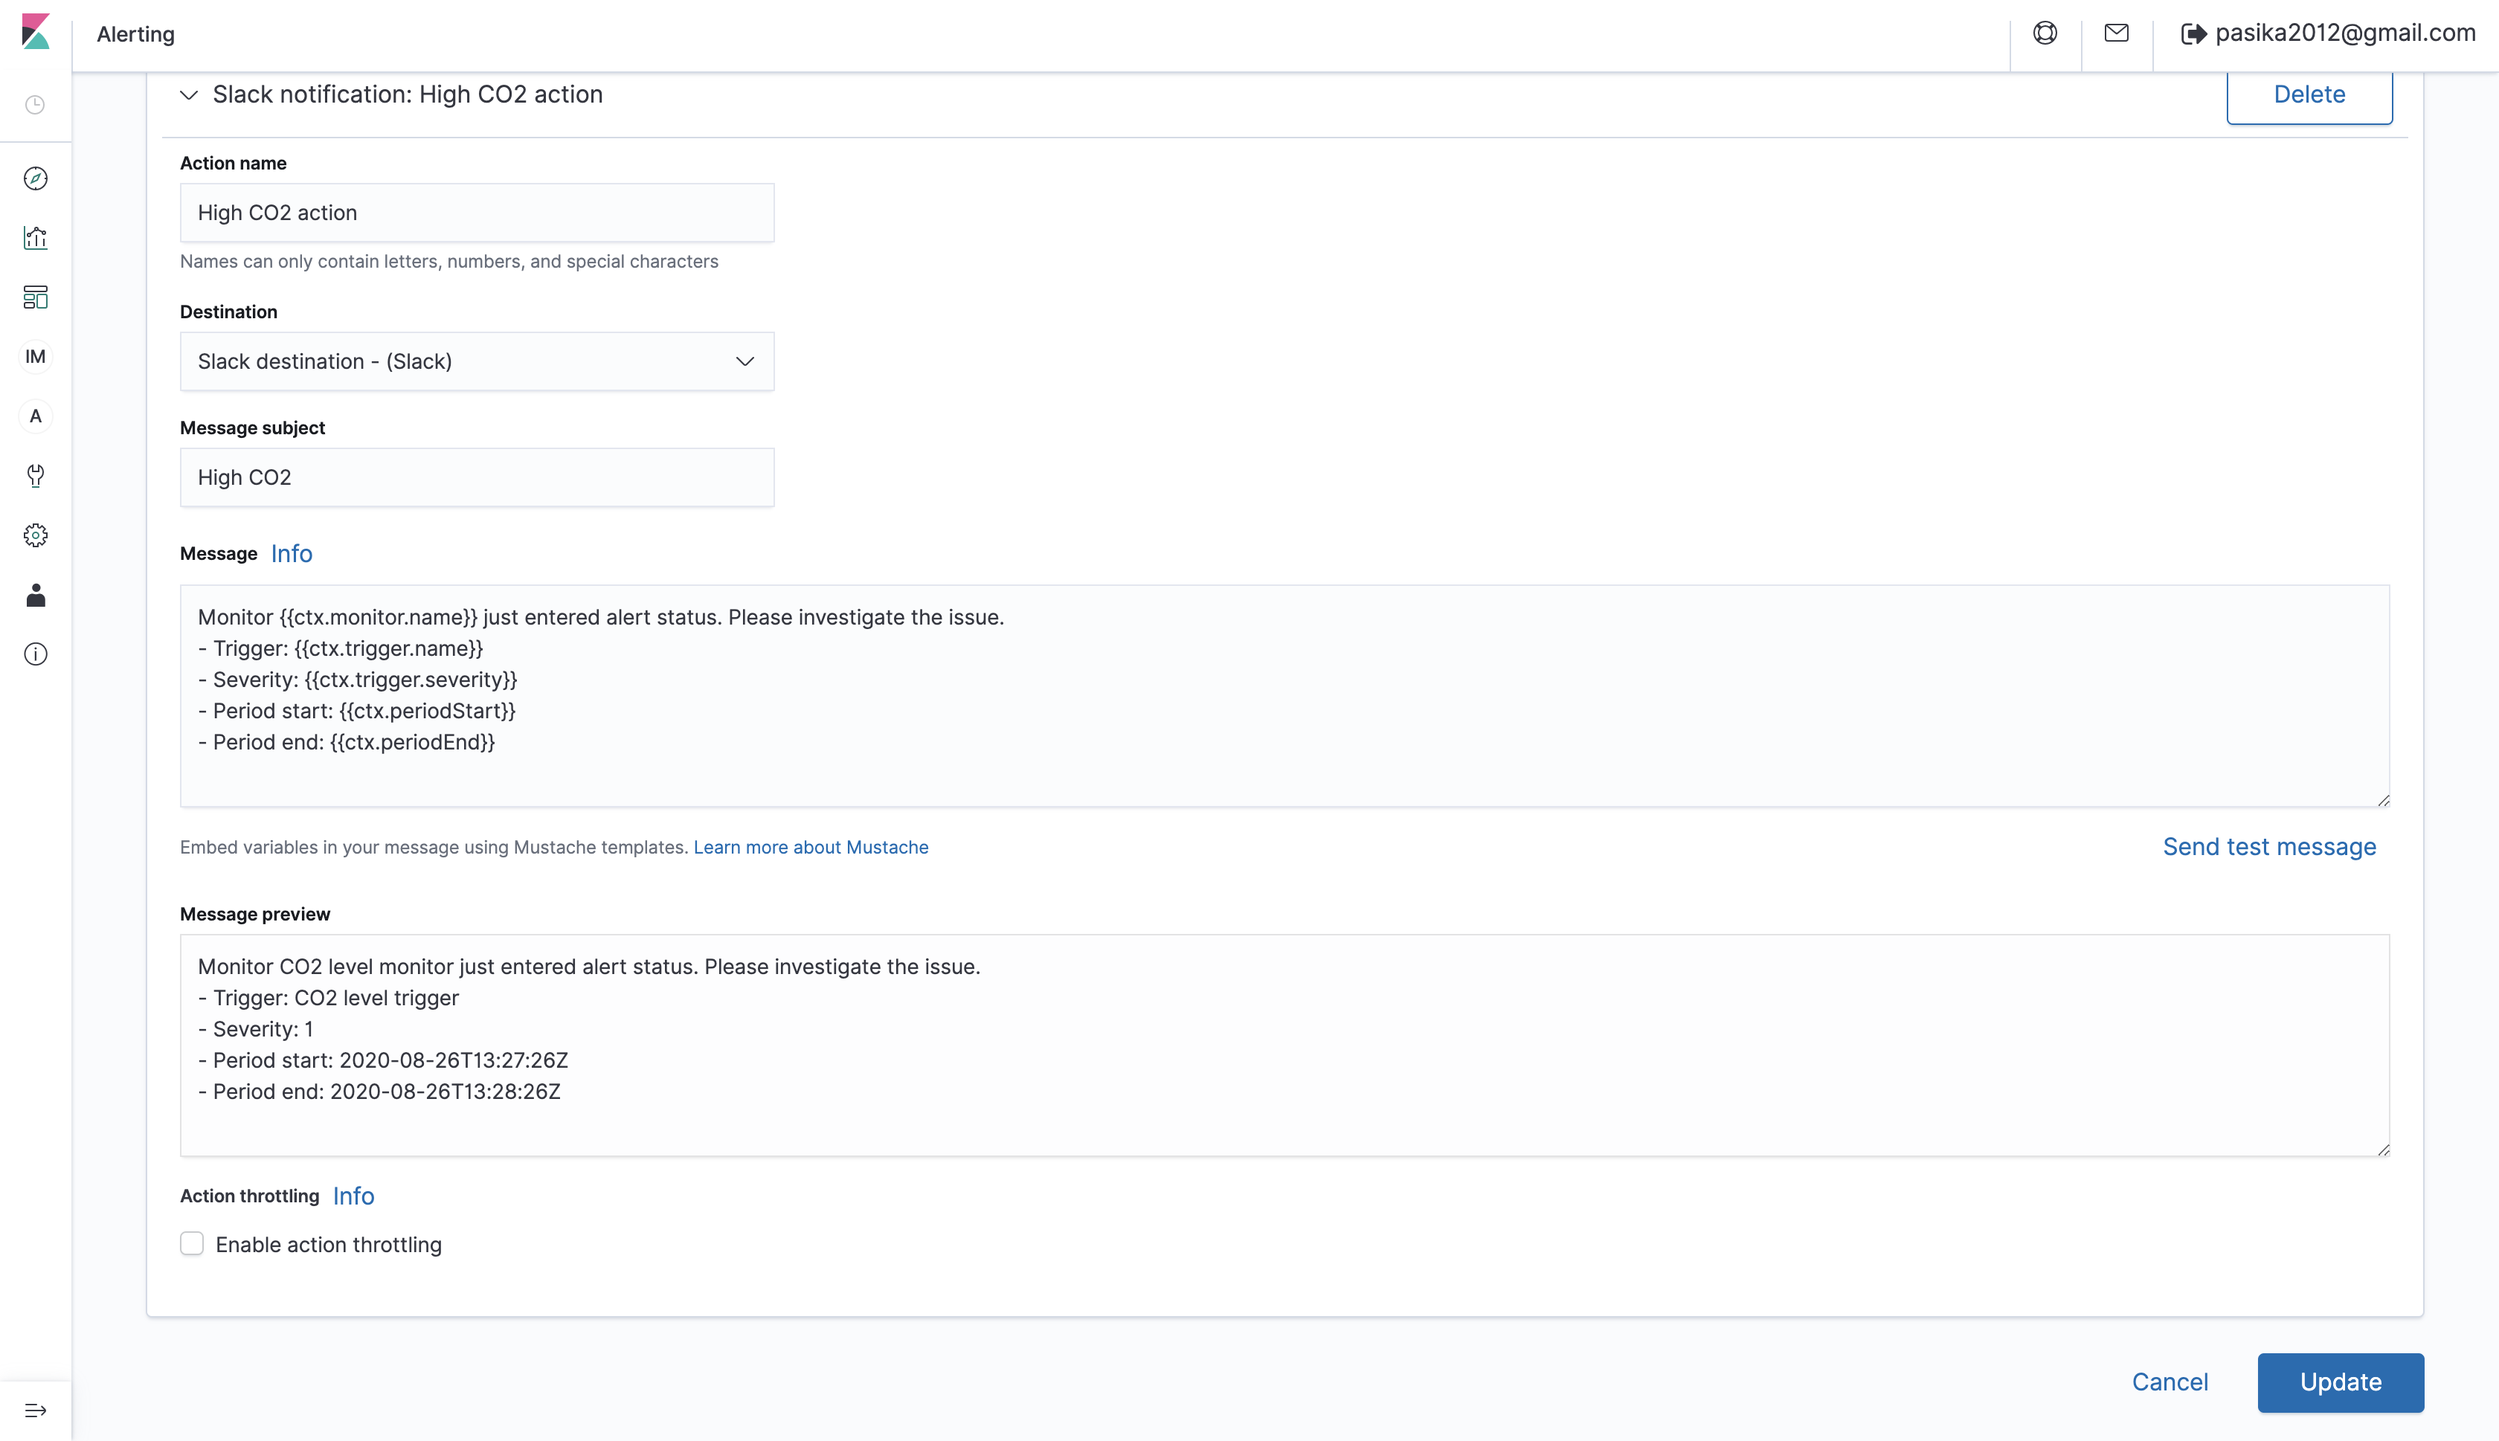
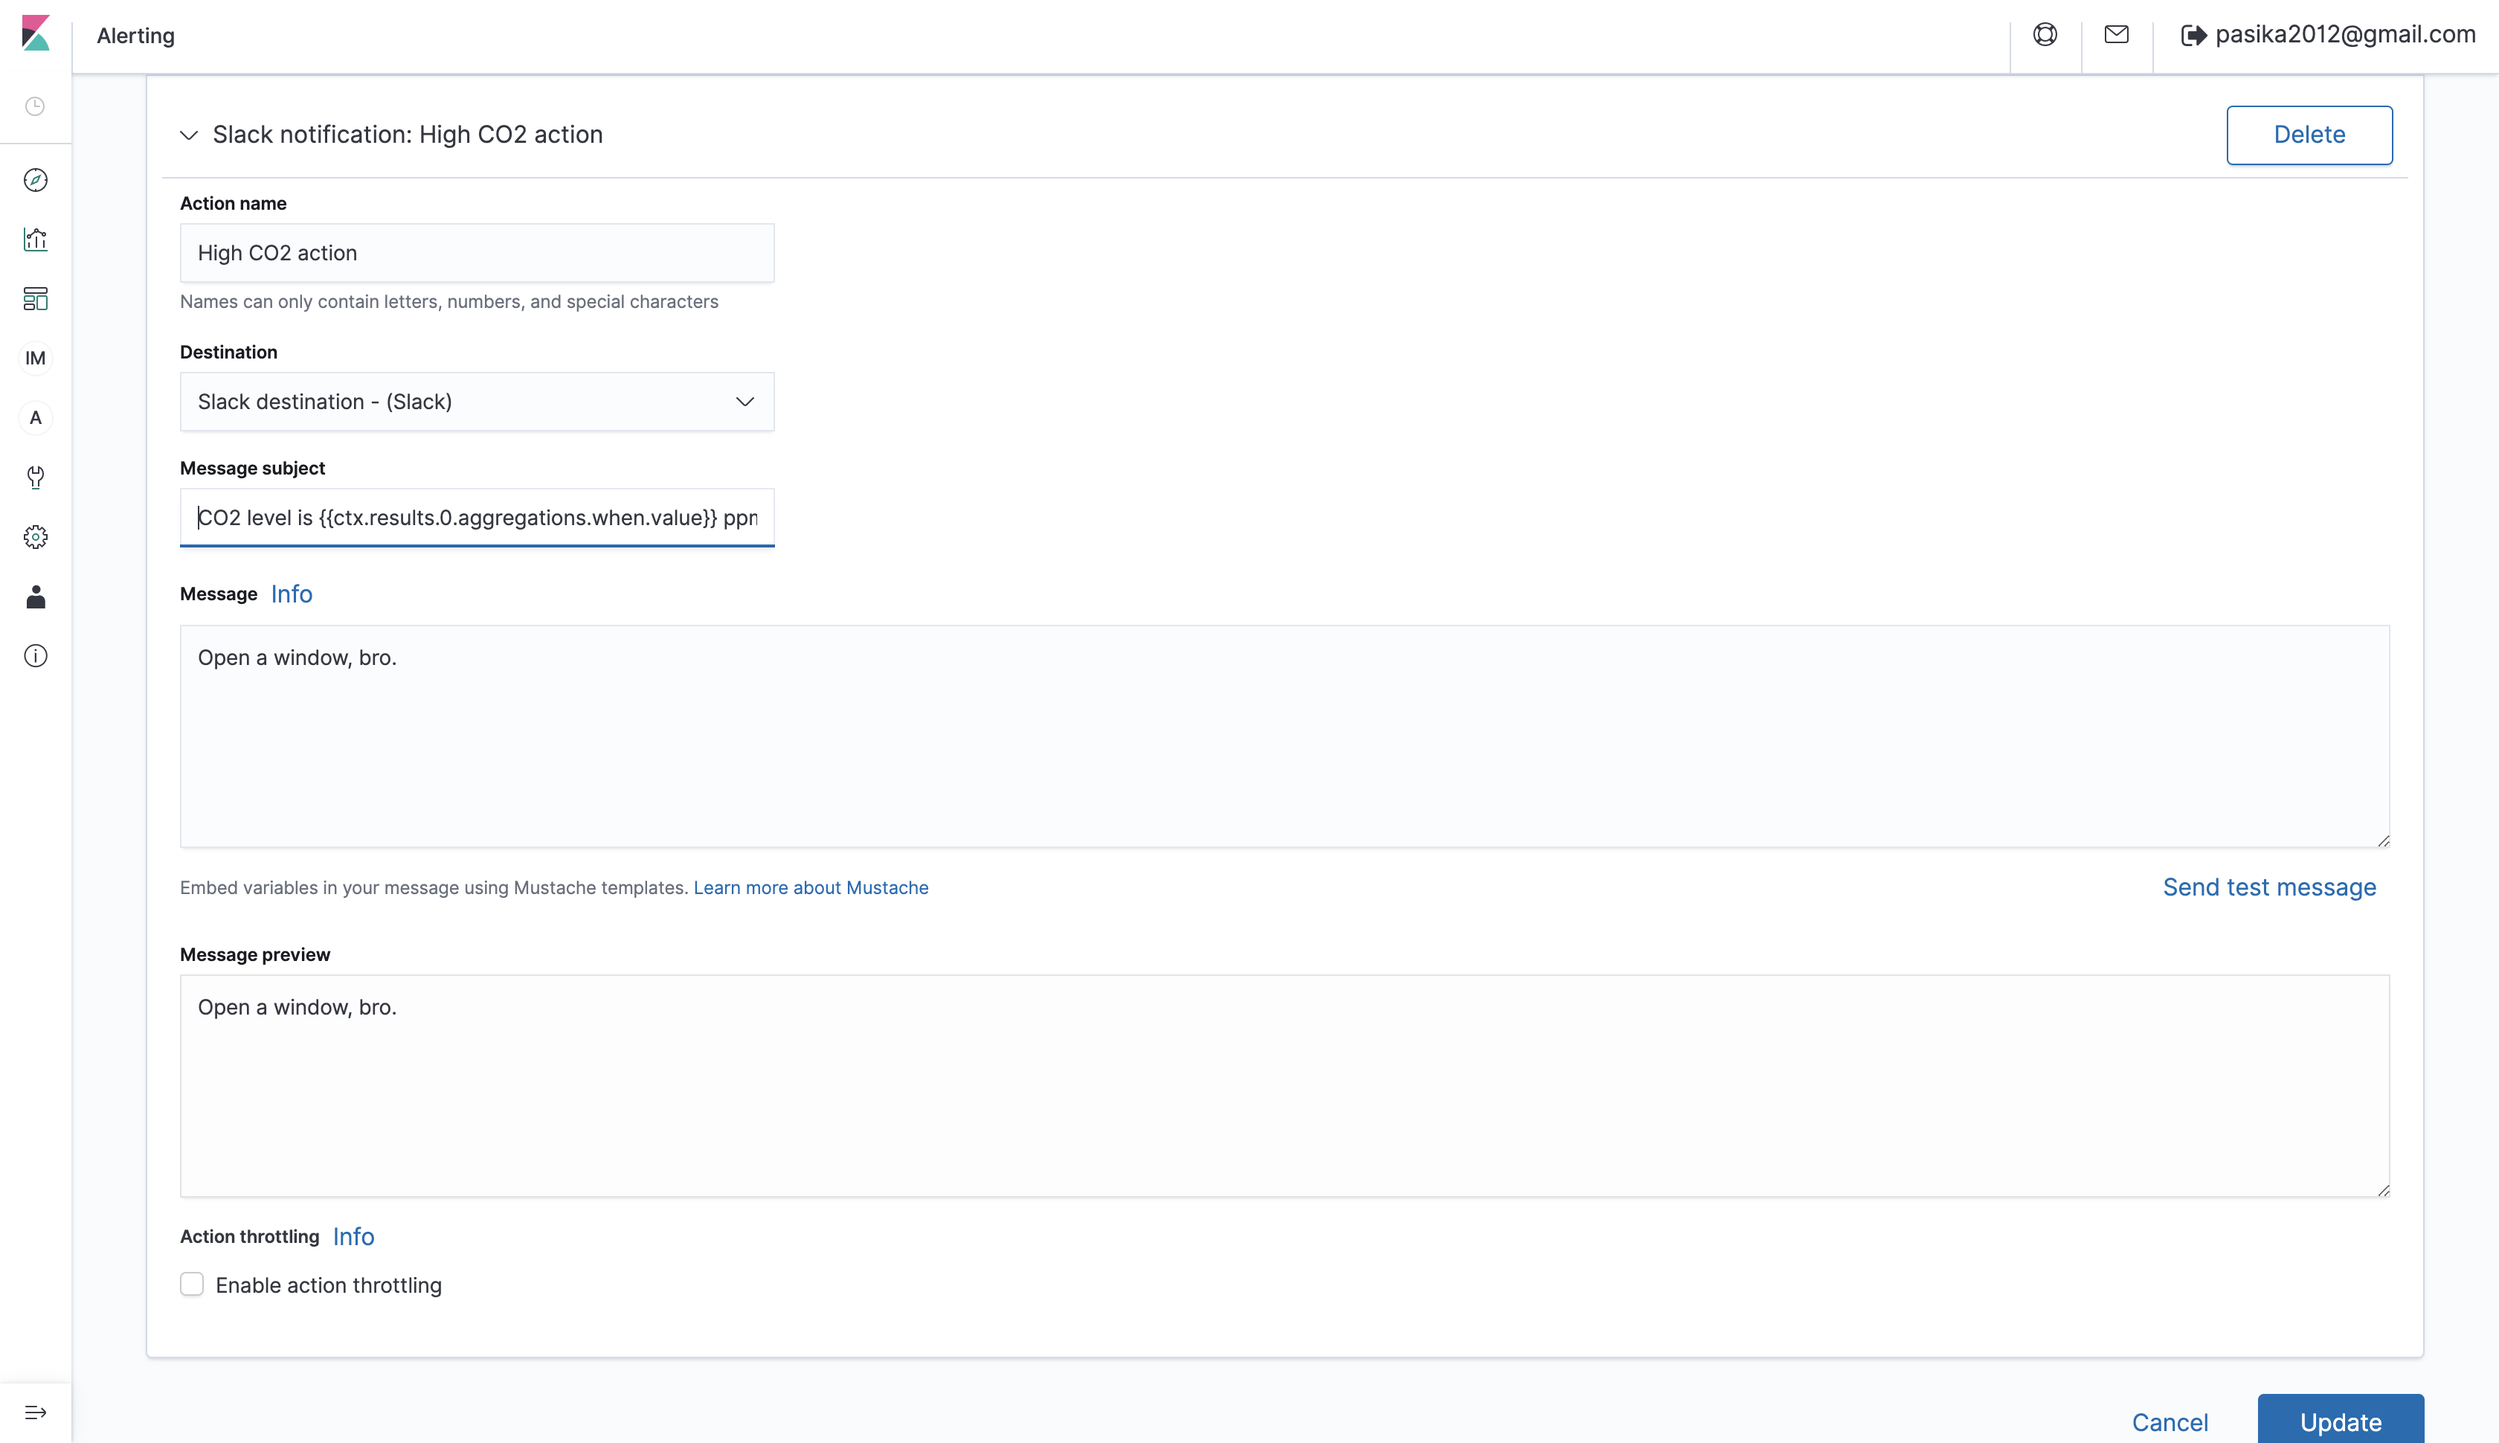
AGILE-2759: add CO2 value to alert message
(cherry picked from commit 6b7173e752918a59fe9768a66f9f3f10aa93becc)

diff --git a/doc/Tutorials/getting-started/open-distro-alerting/index.md b/doc/Tutorials/getting-started/open-distro-alerting/index.md
@@ -13,7 +13,7 @@ sort_idx: 3
 
 Based on the [*Kaa v1.2*][whats new in 1.2].
 
-Time to complete: *10 min*.
+Time to complete: *19 min*.
 
 
 ## Overview
@@ -75,13 +75,14 @@ The field must look like `{your-tenant-ID}*`.
 * Define the below query for the "Create monitor for" field:
 
 ```sql
-WHEN count()
+WHEN max()
+OF dataSample.co2
 OVER all documents
 FOR THE LAST 1 minute(s)
 WHERE dataSample.co2 is greater than 1000
 ```
 
-Here we count all documents where `co2` is greater than 1000.
+Here we calculate the maximum value across all documents where `co2` is greater than 1000.
 
 ![Monitor definition](attach/img/monitor-definition.png)
 
@@ -94,7 +95,7 @@ After monitor creation you should be automatically redirected to the trigger def
 Open Distro **triggers** are conditions that, if met, generate alerts and can perform some action.
 More info on Open Distro triggers is [here][create trigger].
 
-Give trigger a name (e.g., `CO2 level trigger`); leave severity level as is and define "Trigger condition" as `IS ABOVE 0`.
+Give trigger a name (e.g., `CO2 level trigger`); leave severity level as is and define "Trigger condition" as `IS ABOVE 1,000`.
 
 ![Create trigger](attach/img/create-trigger.png)
 
@@ -126,7 +127,14 @@ Actions have a destination, a message subject, and a message body.
 More info on Open Distro actions is [here][create action].
 
 Go back to the "Monitors" page -> click on the just created monitor -> select the trigger -> click "Edit" -> scroll down and click "Add action".
-Name the action (e.g., `High CO2 action`), select earlier created destination, enter Message subject (e.g., `High CO2`).
+* Name the action (e.g., `High CO2 action`)
+* Select earlier created destination
+<!--== We use such trick since Jekyll treats pair of curly braces as variable ==-->
+{% assign co2var = "{{ctx.results.0.aggregations.when.value}}" %}
+* Enter Message subject: `CO2 level is {{co2var}} ppm`.
+Here we used the `{{co2var}}` variable with CO2 level value that will trigger the alert.
+* Finally enter some message in the Message field. 
+
 Click "Send test message" and verify that you got notified in Slack.
 
 Now when the action is set up, click "Update".

diff --git a/doc/Tutorials/iot-data-collection/index.md b/doc/Tutorials/iot-data-collection/index.md
@@ -3,6 +3,6 @@ layout: redirected
 title: Redirect
 sitemap: false
 permalink: /:path/
-redirect_to: Tutorials/getting-started/iot-data-collection
+redirect_to: Tutorials/getting-started/collecting-data-from-a-device
 excludeFromNav: true
 ---
